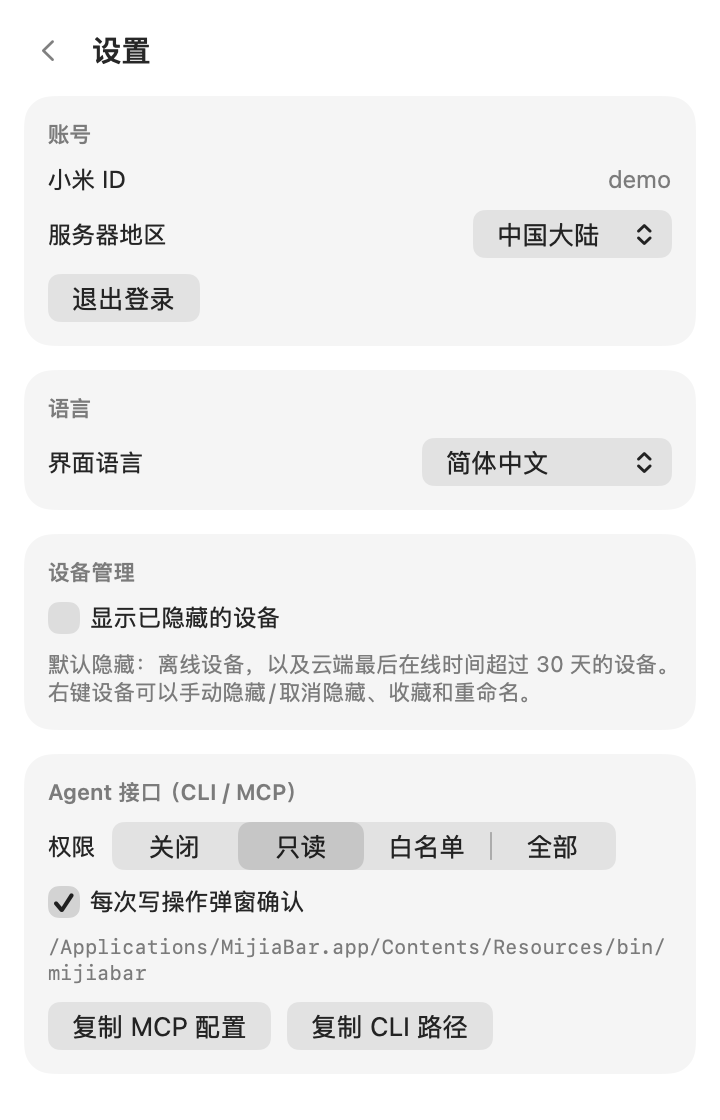
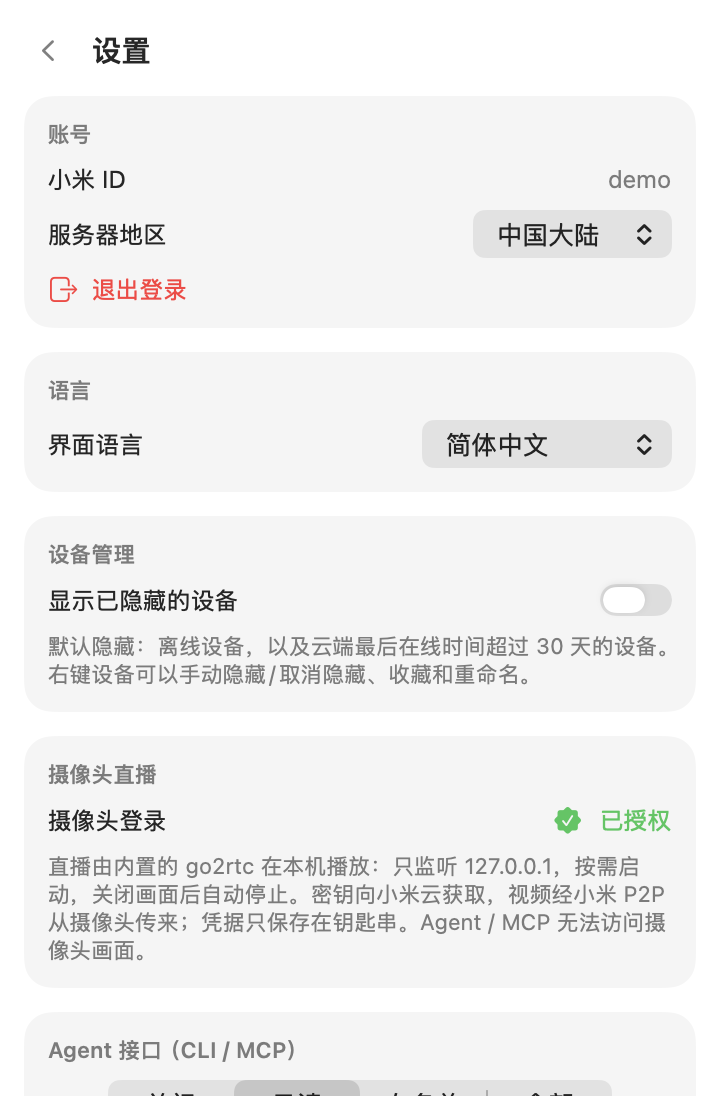
Make the settings page consistent
- One card component: SettingsGroup replaces the group() helper and the
  hand-copied card styling in the Agent section.
- On/off settings are switches aligned like every other row (label left,
  control right) instead of checkboxes: show hidden devices, confirm
  every write, and the agent allowlist.
- Sign out and Quit share one destructive row style (ActionRow, with
  press and hover feedback). Quit moves from a red pill floating between
  cards into its own card at the bottom, with its ⌘Q shortcut shown.
- The agent access picker is centered in its card.
- The About version is read from the app bundle instead of a hard-coded
  "v0.1.8" that would go stale; debug builds show "dev".

diff --git a/Sources/MijiaBarApp/GenericViews.swift b/Sources/MijiaBarApp/GenericViews.swift
@@ -132,7 +132,7 @@ struct SettingsView: View {
                                 ForEach(xiaomiRegions, id: \.id) { Text($0.name).tag($0.id) }
                             }.labelsHidden().fixedSize()
                         }
-                        Button(L("退出登录", "Sign out"), role: .destructive) { m.logout() }
+                        ActionRow(title: L("退出登录", "Sign out"), icon: "rectangle.portrait.and.arrow.right", destructive: true) { m.logout() }
                     }
                     group(L("语言", "Language")) {
                         let sug = AppLang.suggested(forRegion: m.prefs.region)
@@ -150,7 +150,7 @@ struct SettingsView: View {
                         }
                     }
                     group(L("设备管理", "Devices")) {
-                        Toggle(L("显示已隐藏的设备", "Show hidden devices"), isOn: Binding(get: { m.showHidden }, set: { _ in m.toggleShowHidden() }))
+                        SwitchRow(title: L("显示已隐藏的设备", "Show hidden devices"), isOn: Binding(get: { m.showHidden }, set: { _ in m.toggleShowHidden() }))
                         Text(L("默认隐藏：离线设备，以及云端最后在线时间超过 30 天的设备。右键设备可以手动隐藏/取消隐藏、收藏和重命名。",
                                "Hidden by default: offline devices and devices not seen online for 30+ days. Right-click a device to hide, favorite or rename."))
                             .font(.system(size: 11)).foregroundStyle(.secondary)
@@ -174,16 +174,13 @@ struct SettingsView: View {
                             .font(.system(size: 11)).foregroundStyle(.secondary).fixedSize(horizontal: false, vertical: true)
                     }
                     AgentSettingsSection()
-                    Button { m.quitApp() } label: {
-                        Label(L("完全退出 MijiaBar", "Quit MijiaBar"), systemImage: "power")
-                            .font(.system(size: 13, weight: .semibold)).frame(maxWidth: .infinity).padding(.vertical, 9)
-                            .background(RoundedRectangle(cornerRadius: 12).fill(Color.red.opacity(0.14)))
-                            .foregroundStyle(.red)
-                    }.buttonStyle(.plain).help("⌘Q")
                     group(L("关于", "About")) {
-                        row("MijiaBar") { Text("v0.1.8").foregroundStyle(.secondary) }
+                        row("MijiaBar") { Text(appVersion).foregroundStyle(.secondary) }
                         Link("github.com/neardws/MijiaBar", destination: URL(string: "https://github.com/neardws/MijiaBar")!)
-
+                    }
+                    // 退出放在最后，和「退出登录」同一种危险操作行
+                    SettingsGroup {
+                        ActionRow(title: L("完全退出 MijiaBar", "Quit MijiaBar"), icon: "power", destructive: true, shortcut: "⌘Q") { m.quitApp() }
                     }
                 }
             }
@@ -196,16 +193,58 @@ struct SettingsView: View {
     }
 
     func copy(_ s: String) { NSPasteboard.general.clearContents(); NSPasteboard.general.setString(s, forType: .string) }
-    func group<C: View>(_ title: String, @ViewBuilder _ c: () -> C) -> some View {
+    func group<C: View>(_ title: String, @ViewBuilder _ c: @escaping () -> C) -> some View { SettingsGroup(title: title, content: c) }
+    func row<C: View>(_ t: String, @ViewBuilder _ c: () -> C) -> some View { HStack { Text(t); Spacer(); c() } }
+    /// 发布包里读 Info.plist 的版本号；直接运行调试构建时没有
+    var appVersion: String { (Bundle.main.infoDictionary?["CFBundleShortVersionString"] as? String).map { "v" + $0 } ?? "dev" }
+}
+
+/// 设置页的分组卡片：小标题 + 内容，圆角 14，Theme.card 底色
+struct SettingsGroup<Content: View>: View {
+    var title: String? = nil
+    @ViewBuilder let content: () -> Content
+    var body: some View {
         VStack(alignment: .leading, spacing: 8) {
-            Text(title).font(.system(size: 11, weight: .semibold)).foregroundStyle(.secondary)
-            c()
+            if let title { Text(title).font(.system(size: 11, weight: .semibold)).foregroundStyle(.secondary) }
+            content()
         }
         .font(.system(size: 12))
         .padding(12).frame(maxWidth: .infinity, alignment: .leading)
         .background(RoundedRectangle(cornerRadius: 14, style: .continuous).fill(Theme.card))
     }
-    func row<C: View>(_ t: String, @ViewBuilder _ c: () -> C) -> some View { HStack { Text(t); Spacer(); c() } }
+}
+
+/// 开关行：文字在左、系统开关在右（和其他行一样左右对齐）
+struct SwitchRow: View {
+    let title: String
+    @Binding var isOn: Bool
+    var body: some View {
+        Toggle(title, isOn: $isOn).toggleStyle(.switch).controlSize(.mini)
+            .labelsHidden()
+            .frame(maxWidth: .infinity, alignment: .trailing)
+            .overlay(alignment: .leading) { Text(title).lineLimit(1).allowsHitTesting(false).accessibilityHidden(true) }
+    }
+}
+
+/// 操作行：整行可点，按压/悬停反馈与其他按钮一致；危险操作用红色
+struct ActionRow: View {
+    let title: String, icon: String
+    var destructive = false
+    var shortcut: String? = nil
+    let action: () -> Void
+    var body: some View {
+        Button(action: action) {
+            HStack(spacing: 6) {
+                Image(systemName: icon).frame(width: 16)
+                Text(title)
+                Spacer()
+                if let shortcut { Text(shortcut).foregroundStyle(Color.secondary) }
+            }
+            .foregroundStyle(destructive ? AnyShapeStyle(.red) : AnyShapeStyle(.primary))
+            .contentShape(Rectangle())
+        }
+        .buttonStyle(.pressable(0.98)).hoverHighlight()
+    }
 }
 
 /// 一段可直接粘贴给 Claude Code / Codex / Cursor 等 Agent 的安装说明，Agent 读完即可自行完成配置
@@ -244,30 +283,26 @@ struct AgentPromptBox: View {
 struct AgentSettingsSection: View {
     @EnvironmentObject var m: AppModel
     var body: some View {
-        VStack(alignment: .leading, spacing: 8) {
-            Text(L("Agent 接口（CLI / MCP）", "Agent interface (CLI / MCP)")).font(.system(size: 11, weight: .semibold)).foregroundStyle(.secondary)
-                        Picker(L("权限", "Access"), selection: $m.agent.mode) {
-                            Text(L("关闭", "Off")).tag(AgentPolicy.Mode.disabled)
-                            Text(L("只读", "Read")).tag(AgentPolicy.Mode.readOnly)
-                            Text(L("白名单", "Allowlist")).tag(AgentPolicy.Mode.allowlist)
-                            Text(L("全部", "Full")).tag(AgentPolicy.Mode.full)
-                        }.pickerStyle(.segmented).labelsHidden()
-                        Toggle(L("每次写操作弹窗确认", "Confirm every write"), isOn: $m.agent.confirmWrites)
-                        if m.agent.mode == .allowlist {
-                            VStack(alignment: .leading, spacing: 8) {
-                                Text(L("允许 Agent 控制的设备：", "Devices agents may control:")).font(.system(size: 11)).foregroundStyle(.secondary)
-                                ForEach(m.devices.filter { !m.isHidden($0) }) { d in
-                                    Toggle(m.displayName(d), isOn: Binding(get: { m.agent.allowlist.contains(d.did) }, set: { on in
-                                        if on { m.agent.allowlist.append(d.did) } else { m.agent.allowlist.removeAll { $0 == d.did } }
-                                    })).font(.system(size: 12))
-                                }
-                            }.transition(.pop(0.98, anchor: .top))
-                        }
-                        AgentPromptBox(text: agentSetupPrompt(cli: m.cliPath)) { copy($0); m.showToast(L("已复制，粘贴给你的 Agent 即可", "Copied — paste it into your agent")) }
-                            }
-        .font(.system(size: 12))
-        .padding(12).frame(maxWidth: .infinity, alignment: .leading)
-        .background(RoundedRectangle(cornerRadius: 14, style: .continuous).fill(Theme.card))
+        SettingsGroup(title: L("Agent 接口（CLI / MCP）", "Agent interface (CLI / MCP)")) {
+            Picker(L("权限", "Access"), selection: $m.agent.mode) {
+                Text(L("关闭", "Off")).tag(AgentPolicy.Mode.disabled)
+                Text(L("只读", "Read")).tag(AgentPolicy.Mode.readOnly)
+                Text(L("白名单", "Allowlist")).tag(AgentPolicy.Mode.allowlist)
+                Text(L("全部", "Full")).tag(AgentPolicy.Mode.full)
+            }.pickerStyle(.segmented).labelsHidden().frame(maxWidth: .infinity)
+            SwitchRow(title: L("每次写操作弹窗确认", "Confirm every write"), isOn: $m.agent.confirmWrites)
+            if m.agent.mode == .allowlist {
+                VStack(alignment: .leading, spacing: 8) {
+                    Text(L("允许 Agent 控制的设备：", "Devices agents may control:")).font(.system(size: 11)).foregroundStyle(.secondary)
+                    ForEach(m.devices.filter { !m.isHidden($0) }) { d in
+                        SwitchRow(title: m.displayName(d), isOn: Binding(get: { m.agent.allowlist.contains(d.did) }, set: { on in
+                            if on { m.agent.allowlist.append(d.did) } else { m.agent.allowlist.removeAll { $0 == d.did } }
+                        }))
+                    }
+                }.transition(.pop(0.98, anchor: .top))
+            }
+            AgentPromptBox(text: agentSetupPrompt(cli: m.cliPath)) { copy($0); m.showToast(L("已复制，粘贴给你的 Agent 即可", "Copied — paste it into your agent")) }
+        }
         .animation(Motion.smooth, value: m.agent.mode)
     }
     func copy(_ s: String) { NSPasteboard.general.clearContents(); NSPasteboard.general.setString(s, forType: .string) }
